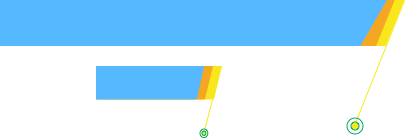
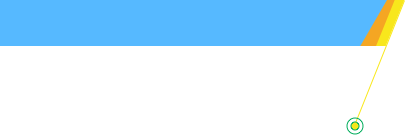
complete home

Changed region(s): [[0.237, 0.4604, 0.563, 1.0]]

diff --git a/app/assets/stylesheets/app/components.scss b/app/assets/stylesheets/app/components.scss
@@ -1,68 +1,31 @@
 .logo-banner {
-	height: 215px;
-	line-height: 196px;
+	height: 200px;
+	line-height: 200px;
 	width: 100%;
 	text-align: center;
-	.site-name {
-		height: 38px;
-	}
+	font-size: 36px;
+	color: #fff;
 }
 
 .mNavbar {
 	border: none;
-	margin-top: 1px;
 	.navbar-brand {
-    padding: 25px 22px;
     font-size: 14px;
     line-height: 20px;
     margin-left: 0 !important;
     color: #4A4A4A;
 	}
 	.brand-active {
-		background-color: #F1F1F1;
-		border-top: 2px solid #3D96D5;
-		color: #3D96D5;
+		background-color: #F8BD23;
+		color: #fff;
 		&:hover {
-			background-color: #F1F1F1;
-		}
-	}
-	.nav {
-		li {
-			padding: 23px 0 25px 0;
-			border-top: 2px solid transparent;
-			a {
-				padding: 0 22px;
-				border-right: 1px solid #EFEFEF;
-				color: #4A4A4A;
-				&:hover {
-					color: #3D96D5;
-				}
-			}
-			&:first-child > a {
-				border-left: 1px solid #EFEFEF;
-			}
-			&:last-child > a {
-				border-right: none;
-			}
-		}
-	}
-	.nav > .active {
-		border-color: #3D96D5;
-		background-color: #F1F1F1;
-		a {
-			color: #3D96D5;
-			background-color: transparent;
-			&:hover {
-				background-color: #F1F1F1;
-			}
+			background-color: #F8BD23;
+			color: #fff;
 		}
 	}
 	.nav-sign {
 		li {
-			height: 70px;
-			&:first-child a {
-				border-left: none;
-			}
+			height: 50px;
 			a {
 				text-align: center;
 				color: #3D96D5;

diff --git a/app/assets/stylesheets/app/bootstrap_custom.scss b/app/assets/stylesheets/app/bootstrap_custom.scss
@@ -3,9 +3,13 @@ $text-color: #4A4A4A;
 
 $container-large-desktop: 1000px;
 
-$navbar-height: 70px;
+$navbar-height: 50px;
 $navbar-margin-bottom: 0;
 $navbar-border-radius: 0;
 $navbar-default-bg: #fff;
+$navbar-default-link-hover-color: #3D96D5;
+$navbar-default-link-color: #4A4A4A;
+$navbar-default-link-active-bg: #F8BD23;
+$navbar-default-link-active-color: #fff;
 
 $carousel-control-opacity: 0.3;

diff --git a/app/assets/stylesheets/app/home.scss b/app/assets/stylesheets/app/home.scss
@@ -57,11 +57,18 @@
 				}
 			}
 			.apply {
-				top: 72px;
+				top: 90px;
 				left: 118px;
+				height: 38px;
+				line-height: 38px;
+				width: 118px;
+				border-radius: 19px;
+				background-color: #FDD540;
+				text-align: center;
 				a {
 					color: #fff;
 					text-decoration: none;
+					font-size: 16px;
 					&:hover {
 						color: #fff;
 						text-decoration: underline;
